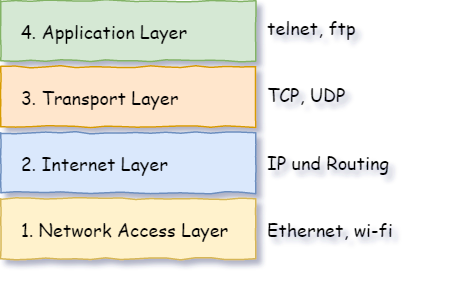
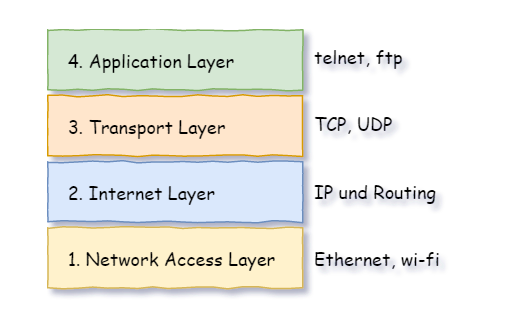
vault backup: 2023-09-03 10:51:49 from PC-Simon

diff --git a/netzwerk-technik/OSI-Modell.md b/netzwerk-technik/OSI-Modell.md
@@ -48,7 +48,7 @@ Die Idee ist sehr gut, allerdings haben sich vielfach die unteren Schichten als 
 > 
 > - Schichten 5-7: **Anwendungssystem** - für dieses System ist eine komplette End-zu-End-Verbindung gewährleistet.
 > 
-> ![#right|Schichten modell](assets/NW_Schichtenmodell.png)
+> ![](assets/NW_Schichtenmodell.png)
 > 
 > Definition der Begriffe: Bits, Frames, Pakete, Segmente, Daten (siehe Bild): sind jeweils das Gleiche, kennzeichnen lediglich in welcher Schicht sie sich befinden. Zuordnung von (sehr gängigen) Protokollen zu den Schichten (siehe Bild).
 
@@ -66,8 +66,7 @@ Hier ist **Host A** mit **Router 1** verbunden. Dieser ist (via weiterer, hier n
 - über die Jahre haben sich leichter implementierbare Protokolle (daher preiswerter) etabliert.
 - das amerikanische Verteidigungsministerium hat eigene Lösungen erarbeitet
 
-Internet-Protokollfamilie = TCP/IP-Protokollfamilie (nach den beiden Kern Protokollen) = DoD-Protokollfamilie (**D**epartment **o**f **D**efence), 4 Ebenen:
-
+Internet-Protokollfamilie = TCP/IP-Protokollfamilie (nach den beiden Kern Protokollen) = DoD-Protokollfamilie (**D**epartment **o**f **D**efence), 4 Ebenen:  
 ![|inlineR](assets/NW_Schichtenmodell_IP.png)
 
 - **Application Layer** OSI-Layer 5,6, und 7; Nachricht bestehend aus Header und Daten.
